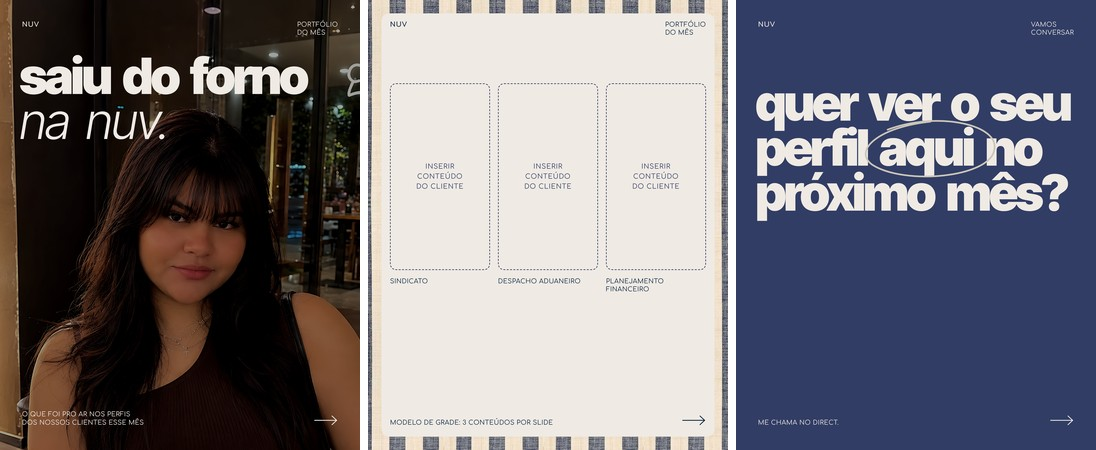
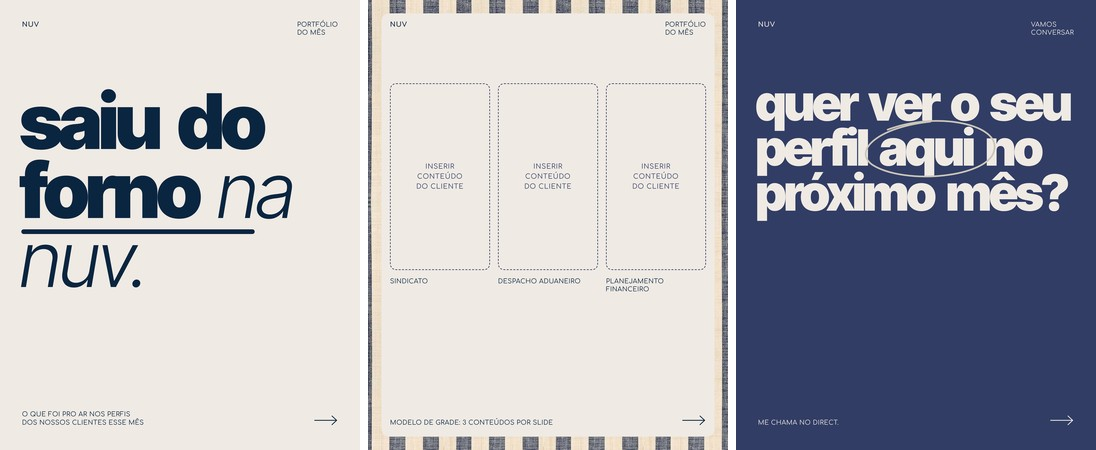
Typographic cover for Saiu do forno; pinned row alternates photo/type/photo
Claude-Session: https://claude.ai/code/session_01EMPiZm8vwXxfPYZ7GnxN3Y

diff --git a/nuv-posts-trello/index.html b/nuv-posts-trello/index.html
@@ -130,7 +130,10 @@ const POSTS = {
   ],
   // Card "Saiu do forno na NUV (portfólio de conteúdos, fixar)": grade com espaços pros conteúdos dos clientes
   saiu_do_forno: [
-    [true, capaFull({ key: 'isaNoite', fx: .5, fy: .1, zoom: 1.3, lab: 'portfólio<br>do mês', title: 'saiu do forno <em>na nuv.</em>', size: 150, sub: 'o que foi pro ar nos perfis<br>dos nossos clientes esse mês' })],
+    [false, `${BRAND(C.navy)}${LAB('portfólio<br>do mês', C.navy)}
+      <div class="abs H" style="left:58px;top:260px;width:960px;font-size:230px;color:${C.navy}">saiu do forno <em>na nuv.</em></div>
+      <div class="abs" style="left:64px;top:688px;width:700px;height:14px;background:${C.navy};border-radius:7px"></div>
+      ${FOOT('o que foi pro ar nos perfis<br>dos nossos clientes esse mês', C.navy)}${ARROW(C.navy)}`],
     [false, `${box(0, 0, 1080, 1350, photo('listras', 1080, 1350, .5, .5))}<div class="abs" style="left:40px;top:40px;right:40px;bottom:40px;background:${C.off};border-radius:24px"></div>${BRAND(C.navy)}${LAB('portfólio<br>do mês', C.navy)}
       <div class="abs" style="left:66px;right:66px;top:250px;display:flex;gap:24px">
         ${['sindicato', 'despacho aduaneiro', 'planejamento financeiro'].map(n => `<div style="flex:1">

diff --git a/nuv-posts-trello/feed.html b/nuv-posts-trello/feed.html
@@ -18,7 +18,7 @@ body { margin: 0; background: #fff; font-family: 'UI', sans-serif; color: #000; 
 <div class="tabs"><span>▦ POSTS</span><span style="color:#8e8e8e">REELS</span><span style="color:#8e8e8e">MARCADOS</span></div>
 <div class="grid" id="g"></div>
 <script>
-const capas = ['servicos', 'como_trabalhar', 'saiu_do_forno', 'sites'].map(t => [`out/NUV_carrossel_${t}/NUV_carrossel_${t}_01.jpg`, true]);
+const capas = ['servicos', 'saiu_do_forno', 'como_trabalhar', 'sites'].map(t => [`out/NUV_carrossel_${t}/NUV_carrossel_${t}_01.jpg`, true]);
 const kit = ['02_nao_e_sorte_e_processo', '06_precisa_mesmo_de_um_site', '05_mesmo_instagram_resultado_diferente', '08_sua_visao_nosso_trabalho', '03_marca_boa_e_lembrada', '10_marcas_crescem_aqui', '04_do_scroll_a_venda', '01_ideias_constroem_marcas'].map(n => [`../nuv-kit-feed/out/instagram-B_Inter_Tight/${n}.jpg`, false]);
 document.getElementById('g').innerHTML = [...capas, ...kit].map(([u, c]) => `<div style="background-image:url(${u})">${c ? '<i></i>' : ''}</div>`).join('');
 </script></body></html>
